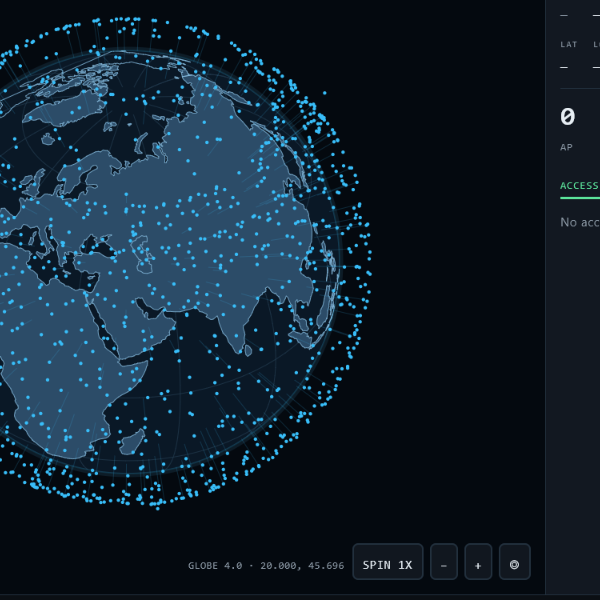
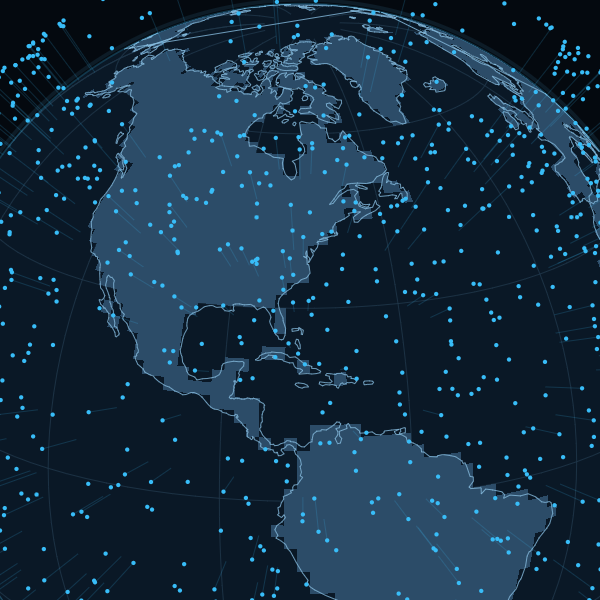
Draw the globe's land as a mesh instead of filling coastline polygons
Any polygon fill of a coast ring that crosses the horizon folds the far half onto
the near half, so it paints land-coloured blocks over open ocean - and every way
of closing or clipping the ring traded that pattern for another artefact: a wash,
a flooded disc, or outlines with no land at all.

Land is now decided on a two-degree longitude/latitude grid, worked out once from
the coastline rings, and drawn as triangles on the near side only. There is no
horizon to fold over, so the fill meets the coast at every rotation, and the
coastline is still stroked over the top for a crisp edge. Measured over a full
rotation: land present in every frame (26k-48k land-coloured pixels, never zero)
and the lattice that scored 0.004 in the bad frame sits at the 0.002 baseline.

🤖 Generated with Codebuff

diff --git a/desktop/src/main/java/dev/skyward/rf/desktop/ui/MapView.kt b/desktop/src/main/java/dev/skyward/rf/desktop/ui/MapView.kt
@@ -36,6 +36,8 @@ import androidx.compose.ui.graphics.Path
 import androidx.compose.ui.graphics.drawscope.DrawScope
 import androidx.compose.ui.graphics.drawscope.Stroke
 import androidx.compose.ui.graphics.drawscope.clipPath
+import androidx.compose.ui.graphics.drawscope.drawIntoCanvas
+import androidx.compose.ui.graphics.nativeCanvas
 import androidx.compose.ui.input.pointer.PointerEventType
 import androidx.compose.ui.input.pointer.pointerInput
 import androidx.compose.ui.text.font.FontWeight
@@ -563,6 +565,13 @@ private fun DrawScope.drawGlobeSphere(
         while (parallel <= 60.0) { line(parallel, -180.0, parallel, 180.0, 96); parallel += 30.0 }
         drawPath(grid, Color(0xFF1E3548).copy(alpha = alpha), style = Stroke(width = 0.7.dp.toPx()))
 
+        // Land is drawn as a mesh of the cells that the coastline rings cover, not by filling the
+        // rings themselves. A ring that passes behind the horizon mirrors its far half onto the
+        // near half, and any polygon fill of it then covers ocean - the checkered pattern this was
+        // reported for. Cells are decided on in longitude and latitude instead, where there is no
+        // horizon to fold over, so the fill lands exactly on the coast at every rotation.
+        drawLandMesh(rings, center, radius, alpha, sinLat0, cosLat0, lon0, cosTilt, sinTilt)
+
         val coast = Path()
         val HORIZON = 0.02f
         for (ring in rings) {
@@ -618,7 +627,6 @@ private fun DrawScope.drawGlobeSphere(
                         i += 2
                     }
                     path.close()
-                    if (visible == n) drawPath(path, Color(0xFF2C4C68), alpha = alpha)
                     coast.addPath(path)
                 }
                 run.clear()
@@ -658,4 +666,149 @@ private fun DrawScope.drawGlobeSphere(
 
     drawCircle(Desk.cyan.copy(alpha = 0.22f * alpha), radius = radius, center = center, style = Stroke(1.4.dp.toPx()))
     drawCircle(Color(0xFF5AC8FF).copy(alpha = 0.10f * alpha), radius = radius * 1.01f, center = center, style = Stroke(3.dp.toPx()))
+}
+
+/** Land coverage on a 2-degree longitude/latitude grid, worked out once from the coastline rings. */
+private object LandCover {
+    const val X = 180
+    const val Y = 90
+
+    private var maskedRings: Array<FloatArray>? = null
+    private var cells: BooleanArray? = null
+
+    fun mask(rings: Array<FloatArray>): BooleanArray {
+        val cached = cells
+        if (cached != null && maskedRings === rings) return cached
+        val out = BooleanArray(X * Y)
+        for (ring in rings) {
+            val n = ring.size / 2
+            if (n < 3) continue
+            var minLon = Double.MAX_VALUE
+            var maxLon = -Double.MAX_VALUE
+            var minLat = Double.MAX_VALUE
+            var maxLat = -Double.MAX_VALUE
+            for (k in 0 until n) {
+                val lon = ring[2 * k].toDouble()
+                val lat = ring[2 * k + 1].toDouble()
+                if (lon < minLon) minLon = lon
+                if (lon > maxLon) maxLon = lon
+                if (lat < minLat) minLat = lat
+                if (lat > maxLat) maxLat = lat
+            }
+            val i0 = (((minLon + 180.0) / 360.0) * X).toInt().coerceIn(0, X - 1)
+            val i1 = (((maxLon + 180.0) / 360.0) * X).toInt().coerceIn(0, X - 1)
+            val j0 = (((90.0 - maxLat) / 180.0) * Y).toInt().coerceIn(0, Y - 1)
+            val j1 = (((90.0 - minLat) / 180.0) * Y).toInt().coerceIn(0, Y - 1)
+            for (j in j0..j1) {
+                val lat = 90.0 - (j + 0.5) * 180.0 / Y
+                for (i in i0..i1) {
+                    val at = j * X + i
+                    if (out[at]) continue
+                    val lon = -180.0 + (i + 0.5) * 360.0 / X
+                    if (inside(ring, n, lon, lat)) out[at] = true
+                }
+            }
+        }
+        maskedRings = rings
+        cells = out
+        return out
+    }
+
+    private fun inside(ring: FloatArray, n: Int, lon: Double, lat: Double): Boolean {
+        var inside = false
+        var j = n - 1
+        for (i in 0 until n) {
+            val xi = ring[2 * i].toDouble()
+            val yi = ring[2 * i + 1].toDouble()
+            val xj = ring[2 * j].toDouble()
+            val yj = ring[2 * j + 1].toDouble()
+            if ((yi > lat) != (yj > lat) && lon < (xj - xi) * (lat - yi) / (yj - yi) + xi) {
+                inside = !inside
+            }
+            j = i
+        }
+        return inside
+    }
+}
+
+/**
+ * Draws the land as triangles over the near side of the ball.
+ *
+ * Each covered grid cell becomes two triangles when all four of its corners sit in front of the
+ * horizon; a cell that reaches over the limb is skipped, and the coast outline drawn over the top
+ * carries the silhouette there. Nothing here can paint the far side, which is what the polygon
+ * fills kept doing.
+ */
+private fun DrawScope.drawLandMesh(
+    rings: Array<FloatArray>,
+    center: Offset,
+    radius: Float,
+    alpha: Float,
+    sinLat0: Double,
+    cosLat0: Double,
+    lon0: Double,
+    cosTilt: Double,
+    sinTilt: Double,
+) {
+    val mask = LandCover.mask(rings)
+    val cols = LandCover.X + 1
+    val rows = LandCover.Y + 1
+    val xs = FloatArray(cols * rows)
+    val ys = FloatArray(cols * rows)
+    val depth = FloatArray(cols * rows)
+    for (j in 0 until rows) {
+        val la = Math.toRadians((90.0 - j * 180.0 / LandCover.Y).coerceIn(-89.9, 89.9))
+        val sinLa = sin(la)
+        val cosLa = cos(la)
+        for (i in 0 until cols) {
+            val dLon = Math.toRadians(-180.0 + i * 360.0 / LandCover.X) - lon0
+            val cosc = sinLat0 * sinLa + cosLat0 * cosLa * cos(dLon)
+            val y3 = cosLat0 * sinLa - sinLat0 * cosLa * cos(dLon)
+            val at = j * cols + i
+            xs[at] = (center.x + radius * (cosLa * sin(dLon))).toFloat()
+            ys[at] = (center.y - radius * (y3 * cosTilt - cosc * sinTilt)).toFloat()
+            depth[at] = (y3 * sinTilt + cosc * cosTilt).toFloat()
+        }
+    }
+
+    val positions = FloatArray(cols * rows * 2)
+    for (at in 0 until cols * rows) {
+        positions[at * 2] = xs[at]
+        positions[at * 2 + 1] = ys[at]
+    }
+    val indices = ShortArray(LandCover.X * LandCover.Y * 6)
+    var used = 0
+    for (j in 0 until LandCover.Y) {
+        for (i in 0 until LandCover.X) {
+            if (!mask[j * LandCover.X + i]) continue
+            val a = j * cols + i
+            val b = a + 1
+            val c = a + cols
+            val d = c + 1
+            if (depth[a] <= 0.02f || depth[b] <= 0.02f || depth[c] <= 0.02f || depth[d] <= 0.02f) continue
+            indices[used++] = a.toShort()
+            indices[used++] = b.toShort()
+            indices[used++] = d.toShort()
+            indices[used++] = a.toShort()
+            indices[used++] = d.toShort()
+            indices[used++] = c.toShort()
+        }
+    }
+    if (used == 0) return
+    val argb = ((alpha.coerceIn(0f, 1f) * 255f).toInt() shl 24) or 0x2C4C68
+    drawIntoCanvas { canvas ->
+        val paint = org.jetbrains.skia.Paint().apply {
+            color = argb
+            isAntiAlias = false
+        }
+        canvas.nativeCanvas.drawVertices(
+            org.jetbrains.skia.VertexMode.TRIANGLES,
+            positions,
+            null,
+            null,
+            indices.copyOf(used),
+            org.jetbrains.skia.BlendMode.SRC_OVER,
+            paint,
+        )
+    }
 }
